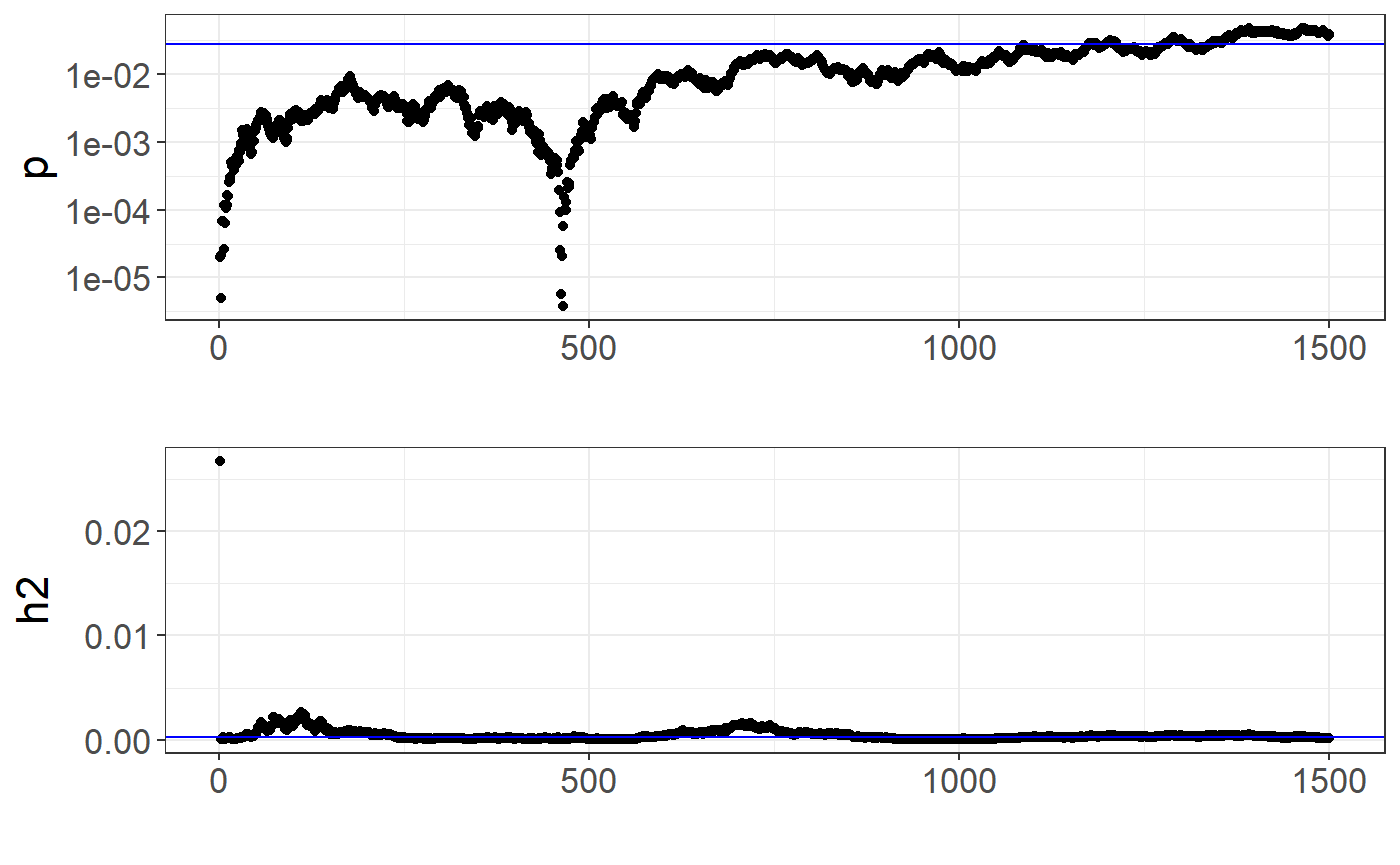
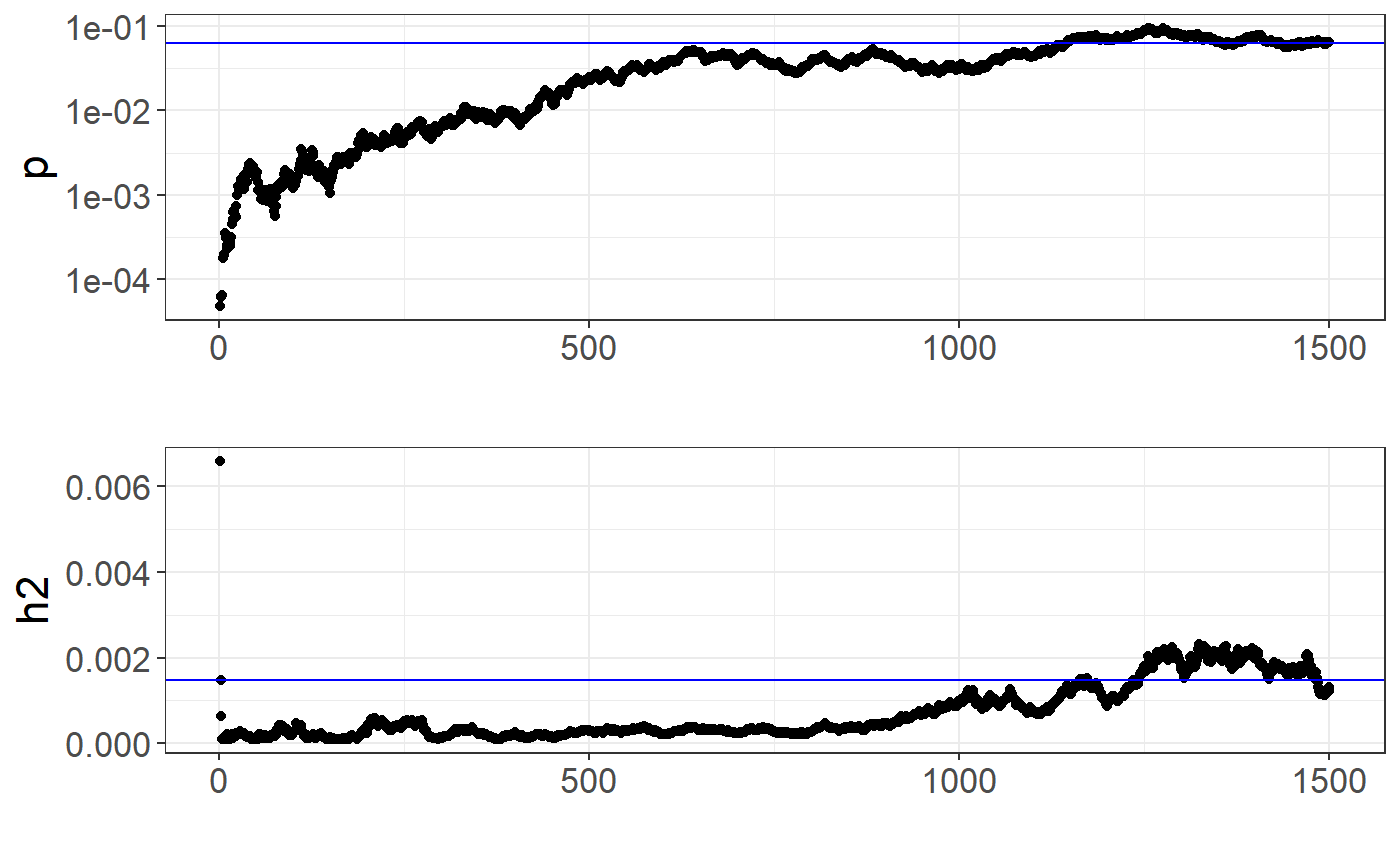
rebuild vignette

diff --git a/docs/articles/LDpred2.html b/docs/articles/LDpred2.html
@@ -43,7 +43,7 @@
 <li class="dropdown">
   <a href="#" class="dropdown-toggle" data-toggle="dropdown" role="button" aria-expanded="false">
     Vignettes
-
+     
     <span class="caret"></span>
   </a>
   <ul class="dropdown-menu" role="menu">
@@ -75,14 +75,14 @@
 <li>
   <a href="https://privefl.github.io/about.html">
     <span class="fa fa-user"></span>
-
+     
     About
   </a>
 </li>
 <li>
   <a href="https://github.com/privefl/bigsnpr">
     <span class="fa fa-github"></span>
-
+     
   </a>
 </li>
       </ul>
@@ -93,23 +93,23 @@
 </div>
 <!--/.navbar -->
 
-
+      
 
       </header><div class="row">
   <div class="col-md-9 contents">
     <div class="page-header toc-ignore">
       <h1 data-toc-skip>Computing polygenic scores using LDpred2</h1>
                         <h4 class="author">Florian Privé</h4>
-
+            
             <h4 class="date">May 25, 2020</h4>
-
+      
       <small class="dont-index">Source: <a href="https://github.com/privefl/bigsnpr/blob/master/vignettes/LDpred2.Rmd"><code>vignettes/LDpred2.Rmd</code></a></small>
       <div class="hidden name"><code>LDpred2.Rmd</code></div>
 
     </div>
 
-
-
+    
+    
 <p>In this document, we show how to compute polygenic risk scores using LDpred2. You should also look at the code of the paper, and at <a href="https://github.com/privefl/paper-ldpred2/blob/master/paper/paper-ldpred2-supp.pdf">the supplementary note on quality control of summary statistics</a>.</p>
 <div id="downloading-genotype-data-and-summary-statistics" class="section level2">
 <h2 class="hasAnchor">
@@ -213,13 +213,13 @@
 <h3 class="hasAnchor">
 <a href="#infinitesimal-model" class="anchor"></a>Infinitesimal model</h3>
 <div class="sourceCode" id="cb21"><html><body><pre class="r">(<span class="no">ldsc</span> <span class="kw">&lt;-</span> <span class="fu"><a href="../reference/snp_ldsc.html">snp_ldsc2</a></span>(<span class="no">corr0</span>, <span class="no">df_beta</span>))</pre></body></html></div>
-<pre><code>##       int        h2
+<pre><code>##       int        h2 
 ## 1.0000000 0.1152166</code></pre>
 <div class="sourceCode" id="cb23"><html><body><pre class="r"><span class="no">h2_est</span> <span class="kw">&lt;-</span> <span class="no">ldsc</span><span class="kw">[[</span><span class="st">"h2"</span>]]</pre></body></html></div>
 <div class="sourceCode" id="cb24"><html><body><pre class="r"><span class="no">beta_inf</span> <span class="kw">&lt;-</span> <span class="fu"><a href="../reference/LDpred2.html">snp_ldpred2_inf</a></span>(<span class="no">corr</span>, <span class="no">df_beta</span>, <span class="kw">h2</span> <span class="kw">=</span> <span class="no">h2_est</span>)</pre></body></html></div>
 <div class="sourceCode" id="cb25"><html><body><pre class="r"><span class="no">pred_inf</span> <span class="kw">&lt;-</span> <span class="fu">big_prodVec</span>(<span class="no">G</span>, <span class="no">beta_inf</span>, <span class="kw">ind.row</span> <span class="kw">=</span> <span class="no">ind.test</span>, <span class="kw">ind.col</span> <span class="kw">=</span> <span class="no">ind.chr2</span>)
 <span class="fu">AUCBoot</span>(<span class="no">pred_inf</span>, <span class="no">y</span>[<span class="no">ind.test</span>])</pre></body></html></div>
-<pre><code>##       Mean       2.5%      97.5%         Sd
+<pre><code>##       Mean       2.5%      97.5%         Sd 
 ## 0.66347145 0.56739110 0.75341191 0.04784474</code></pre>
 </div>
 <div id="grid-of-models" class="section level3">
@@ -340,11 +340,8 @@
 <span class="no">beta_grid</span> <span class="kw">&lt;-</span> <span class="fu"><a href="../reference/LDpred2.html">snp_ldpred2_grid</a></span>(<span class="no">corr</span>, <span class="no">df_beta</span>, <span class="no">params</span>, <span class="kw">ncores</span> <span class="kw">=</span> <span class="no">NCORES</span>)</pre></body></html></div>
 <div class="sourceCode" id="cb34"><html><body><pre class="r"><span class="no">pred_grid</span> <span class="kw">&lt;-</span> <span class="fu">big_prodMat</span>(<span class="no">G</span>, <span class="no">beta_grid</span>, <span class="kw">ind.col</span> <span class="kw">=</span> <span class="no">ind.chr2</span>)
 <span class="no">params</span>$<span class="no">score</span> <span class="kw">&lt;-</span> <span class="fu">big_univLogReg</span>(<span class="fu">as_FBM</span>(<span class="no">pred_grid</span>[<span class="no">ind.val</span>, ]), <span class="no">y</span>[<span class="no">ind.val</span>])$<span class="no">score</span></pre></body></html></div>
-<pre><code>## For 5 columns, IRLS didn't converge; `glm` was used instead.</code></pre>
-<pre><code>## Warning: For 5 columns, glm didn't converge either.</code></pre>
-<div class="sourceCode" id="cb37"><html><body><pre class="r"><span class="fu"><a href="https://rdrr.io/r/base/library.html">library</a></span>(<span class="no">ggplot2</span>)</pre></body></html></div>
-<pre><code>## Warning: package 'ggplot2' was built under R version 3.6.3</code></pre>
-<div class="sourceCode" id="cb39"><html><body><pre class="r"><span class="fu"><a href="https://ggplot2.tidyverse.org/reference/ggplot.html">ggplot</a></span>(<span class="no">params</span>, <span class="fu"><a href="https://ggplot2.tidyverse.org/reference/aes.html">aes</a></span>(<span class="kw">x</span> <span class="kw">=</span> <span class="no">p</span>, <span class="kw">y</span> <span class="kw">=</span> <span class="no">score</span>, <span class="kw">color</span> <span class="kw">=</span> <span class="fu"><a href="https://rdrr.io/r/base/factor.html">as.factor</a></span>(<span class="no">h2</span>))) +
+<div class="sourceCode" id="cb35"><html><body><pre class="r"><span class="fu"><a href="https://rdrr.io/r/base/library.html">library</a></span>(<span class="no">ggplot2</span>)
+<span class="fu"><a href="https://ggplot2.tidyverse.org/reference/ggplot.html">ggplot</a></span>(<span class="no">params</span>, <span class="fu"><a href="https://ggplot2.tidyverse.org/reference/aes.html">aes</a></span>(<span class="kw">x</span> <span class="kw">=</span> <span class="no">p</span>, <span class="kw">y</span> <span class="kw">=</span> <span class="no">score</span>, <span class="kw">color</span> <span class="kw">=</span> <span class="fu"><a href="https://rdrr.io/r/base/factor.html">as.factor</a></span>(<span class="no">h2</span>))) +
   <span class="fu">theme_bigstatsr</span>() +
   <span class="fu"><a href="https://ggplot2.tidyverse.org/reference/geom_point.html">geom_point</a></span>() +
   <span class="fu"><a href="https://ggplot2.tidyverse.org/reference/geom_path.html">geom_line</a></span>() +
@@ -352,28 +349,26 @@
   <span class="fu"><a href="https://ggplot2.tidyverse.org/reference/facet_wrap.html">facet_wrap</a></span>(~ <span class="no">sparse</span>, <span class="kw">labeller</span> <span class="kw">=</span> <span class="no">label_both</span>) +
   <span class="fu"><a href="https://ggplot2.tidyverse.org/reference/labs.html">labs</a></span>(<span class="kw">y</span> <span class="kw">=</span> <span class="st">"GLM Z-Score"</span>, <span class="kw">color</span> <span class="kw">=</span> <span class="st">"h2"</span>) +
   <span class="fu"><a href="https://ggplot2.tidyverse.org/reference/theme.html">theme</a></span>(<span class="kw">legend.position</span> <span class="kw">=</span> <span class="st">"top"</span>, <span class="kw">panel.spacing</span> <span class="kw">=</span> <span class="fu"><a href="https://ggplot2.tidyverse.org/reference/reexports.html">unit</a></span>(<span class="fl">1</span>, <span class="st">"lines"</span>))</pre></body></html></div>
-<pre><code>## Warning: Removed 5 rows containing missing values (geom_point).</code></pre>
-<pre><code>## Warning: Removed 2 row(s) containing missing values (geom_path).</code></pre>
 <p><img src="LDpred2_files/figure-html/unnamed-chunk-17-1.png" width="90%" style="display: block; margin: auto;"></p>
-<div class="sourceCode" id="cb42"><html><body><pre class="r"><span class="fu"><a href="https://rdrr.io/r/base/library.html">library</a></span>(<span class="no">dplyr</span>)
+<div class="sourceCode" id="cb36"><html><body><pre class="r"><span class="fu"><a href="https://rdrr.io/r/base/library.html">library</a></span>(<span class="no">dplyr</span>)
 <span class="no">params</span> <span class="kw">%&gt;%</span>
   <span class="fu"><a href="https://dplyr.tidyverse.org/reference/mutate.html">mutate</a></span>(<span class="kw">sparsity</span> <span class="kw">=</span> <span class="fu"><a href="https://rdrr.io/r/base/colSums.html">colMeans</a></span>(<span class="no">beta_grid</span> <span class="kw">==</span> <span class="fl">0</span>), <span class="kw">id</span> <span class="kw">=</span> <span class="fu"><a href="https://dplyr.tidyverse.org/reference/ranking.html">row_number</a></span>()) <span class="kw">%&gt;%</span>
   <span class="fu"><a href="https://dplyr.tidyverse.org/reference/arrange.html">arrange</a></span>(<span class="fu"><a href="https://dplyr.tidyverse.org/reference/desc.html">desc</a></span>(<span class="no">score</span>)) <span class="kw">%&gt;%</span>
   <span class="fu"><a href="https://dplyr.tidyverse.org/reference/mutate_all.html">mutate_at</a></span>(<span class="fu"><a href="https://rdrr.io/r/base/c.html">c</a></span>(<span class="st">"score"</span>, <span class="st">"sparsity"</span>), <span class="no">round</span>, <span class="kw">digits</span> <span class="kw">=</span> <span class="fl">3</span>) <span class="kw">%&gt;%</span>
   <span class="fu"><a href="https://dplyr.tidyverse.org/reference/slice.html">slice</a></span>(<span class="fl">1</span>:<span class="fl">10</span>)</pre></body></html></div>
 <pre><code>##         p     h2 sparse score sparsity id
-## 1  0.0010 0.0807   TRUE 4.366    0.593 56
-## 2  0.0056 0.1613  FALSE 4.363    0.000 42
-## 3  0.0056 0.1613   TRUE 4.362    0.544 93
-## 4  0.1000 0.1152   TRUE 4.361    0.573 81
-## 5  0.0180 0.1613  FALSE 4.356    0.000 44
-## 6  0.0010 0.1152  FALSE 4.353    0.000 22
-## 7  0.0032 0.1613   TRUE 4.352    0.551 92
-## 8  0.0056 0.1152   TRUE 4.351    0.564 76
-## 9  0.0032 0.1152   TRUE 4.351    0.565 75
-## 10 0.0100 0.0807   TRUE 4.349    0.582 60</code></pre>
+## 1  0.0056 0.1152   TRUE 4.381    0.567 76
+## 2  0.0018 0.1152   TRUE 4.362    0.568 74
+## 3  0.0032 0.1613   TRUE 4.362    0.550 92
+## 4  0.0320 0.1613   TRUE 4.360    0.550 96
+## 5  0.0320 0.0807   TRUE 4.360    0.582 62
+## 6  0.0032 0.1152   TRUE 4.358    0.568 75
+## 7  0.0018 0.1613   TRUE 4.358    0.563 91
+## 8  0.0032 0.0807   TRUE 4.355    0.583 58
+## 9  0.0560 0.0807   TRUE 4.355    0.585 63
+## 10 0.0010 0.0807   TRUE 4.354    0.597 56</code></pre>
 <p>You can then choose the best model according to your preferred criterion (e.g. max AUC). Here, we use the Z-Score from the regression of the phenotype by the PRS since we have found it more robust than using the AUC. It also enables adjusting for covariates in this step.</p>
-<div class="sourceCode" id="cb44"><html><body><pre class="r"><span class="no">best_grid_nosp</span> <span class="kw">&lt;-</span> <span class="no">params</span> <span class="kw">%&gt;%</span>
+<div class="sourceCode" id="cb38"><html><body><pre class="r"><span class="no">best_grid_nosp</span> <span class="kw">&lt;-</span> <span class="no">params</span> <span class="kw">%&gt;%</span>
   <span class="fu"><a href="https://dplyr.tidyverse.org/reference/mutate.html">mutate</a></span>(<span class="kw">id</span> <span class="kw">=</span> <span class="fu"><a href="https://dplyr.tidyverse.org/reference/ranking.html">row_number</a></span>()) <span class="kw">%&gt;%</span>
   <span class="fu"><a href="https://dplyr.tidyverse.org/reference/filter.html">filter</a></span>(!<span class="no">sparse</span>) <span class="kw">%&gt;%</span>
   <span class="fu"><a href="https://dplyr.tidyverse.org/reference/arrange.html">arrange</a></span>(<span class="fu"><a href="https://dplyr.tidyverse.org/reference/desc.html">desc</a></span>(<span class="no">score</span>)) <span class="kw">%&gt;%</span>
@@ -383,9 +378,9 @@
 
 <span class="no">pred_nosp</span> <span class="kw">&lt;-</span> <span class="fu">big_prodVec</span>(<span class="no">G</span>, <span class="no">best_grid_nosp</span>, <span class="kw">ind.row</span> <span class="kw">=</span> <span class="no">ind.test</span>, <span class="kw">ind.col</span> <span class="kw">=</span> <span class="no">ind.chr2</span>)
 <span class="fu">AUCBoot</span>(<span class="no">pred_nosp</span>, <span class="no">y</span>[<span class="no">ind.test</span>])</pre></body></html></div>
-<pre><code>##       Mean       2.5%      97.5%         Sd
-## 0.66529037 0.56933474 0.75679078 0.04782163</code></pre>
-<div class="sourceCode" id="cb46"><html><body><pre class="r"><span class="no">best_grid_sp</span> <span class="kw">&lt;-</span> <span class="no">params</span> <span class="kw">%&gt;%</span>
+<pre><code>##      Mean      2.5%     97.5%        Sd 
+## 0.6704479 0.5698157 0.7647398 0.0496414</code></pre>
+<div class="sourceCode" id="cb40"><html><body><pre class="r"><span class="no">best_grid_sp</span> <span class="kw">&lt;-</span> <span class="no">params</span> <span class="kw">%&gt;%</span>
   <span class="fu"><a href="https://dplyr.tidyverse.org/reference/mutate.html">mutate</a></span>(<span class="kw">id</span> <span class="kw">=</span> <span class="fu"><a href="https://dplyr.tidyverse.org/reference/ranking.html">row_number</a></span>()) <span class="kw">%&gt;%</span>
   <span class="fu"><a href="https://dplyr.tidyverse.org/reference/filter.html">filter</a></span>(<span class="no">sparse</span>) <span class="kw">%&gt;%</span>
   <span class="fu"><a href="https://dplyr.tidyverse.org/reference/arrange.html">arrange</a></span>(<span class="fu"><a href="https://dplyr.tidyverse.org/reference/desc.html">desc</a></span>(<span class="no">score</span>)) <span class="kw">%&gt;%</span>
@@ -395,45 +390,45 @@
 
 <span class="no">pred_sp</span> <span class="kw">&lt;-</span> <span class="fu">big_prodVec</span>(<span class="no">G</span>, <span class="no">best_grid_sp</span>, <span class="kw">ind.row</span> <span class="kw">=</span> <span class="no">ind.test</span>, <span class="kw">ind.col</span> <span class="kw">=</span> <span class="no">ind.chr2</span>)
 <span class="fu">AUCBoot</span>(<span class="no">pred_sp</span>, <span class="no">y</span>[<span class="no">ind.test</span>])</pre></body></html></div>
-<pre><code>##       Mean       2.5%      97.5%         Sd
-## 0.67250467 0.57387886 0.76612549 0.04903482</code></pre>
+<pre><code>##       Mean       2.5%      97.5%         Sd 
+## 0.67072610 0.57171647 0.76128541 0.04835828</code></pre>
 </div>
 <div id="automatic-model" class="section level3">
 <h3 class="hasAnchor">
 <a href="#automatic-model" class="anchor"></a>Automatic model</h3>
 <p>Actually, you can run many of them in parallel with different initial values for <code>p</code>.</p>
-<div class="sourceCode" id="cb48"><html><body><pre class="r"><span class="co"># takes a few minutes</span>
+<div class="sourceCode" id="cb42"><html><body><pre class="r"><span class="co"># takes a few minutes</span>
 <span class="no">multi_auto</span> <span class="kw">&lt;-</span> <span class="fu"><a href="../reference/LDpred2.html">snp_ldpred2_auto</a></span>(<span class="no">corr</span>, <span class="no">df_beta</span>, <span class="kw">h2_init</span> <span class="kw">=</span> <span class="no">h2_est</span>,
                                <span class="kw">vec_p_init</span> <span class="kw">=</span> <span class="fu"><a href="../reference/seq_log.html">seq_log</a></span>(<span class="fl">1e-4</span>, <span class="fl">0.9</span>, <span class="kw">length.out</span> <span class="kw">=</span> <span class="no">NCORES</span>),
                                <span class="kw">ncores</span> <span class="kw">=</span> <span class="no">NCORES</span>)
 <span class="fu"><a href="https://rdrr.io/r/utils/str.html">str</a></span>(<span class="no">multi_auto</span>)</pre></body></html></div>
 <pre><code>## List of 4
 ##  $ :List of 5
-##   ..$ beta_est   : num [1:52556] -1.98e-07 1.19e-07 -9.01e-07 -1.48e-06 -1.32e-06 ...
-##   ..$ p_est      : num 0.0279
-##   ..$ h2_est     : num 0.000316
-##   ..$ path_p_est : num [1:1500] 1.98e-05 4.96e-06 2.15e-05 6.69e-05 6.74e-05 ...
-##   ..$ path_h2_est: num [1:1500] 0.026744 0.0001 0.000101 0.0001 0.000273 ...
+##   ..$ beta_est   : num [1:52556] -9.23e-07 5.57e-07 -4.21e-06 -6.89e-06 -6.18e-06 ...
+##   ..$ p_est      : num 0.0635
+##   ..$ h2_est     : num 0.00147
+##   ..$ path_p_est : num [1:1500] 4.75e-05 6.37e-05 6.06e-05 6.56e-05 1.77e-04 ...
+##   ..$ path_h2_est: num [1:1500] 0.006599 0.00147 0.000645 0.0001 0.000115 ...
 ##  $ :List of 5
-##   ..$ beta_est   : num [1:52556] -5.27e-07 3.19e-07 -2.41e-06 -3.94e-06 -3.53e-06 ...
-##   ..$ p_est      : num 0.0359
-##   ..$ h2_est     : num 0.000839
-##   ..$ path_p_est : num [1:1500] 0.00243 0.00215 0.00271 0.00299 0.00235 ...
-##   ..$ path_h2_est: num [1:1500] 0.1175 0.0742 0.0769 0.0853 0.069 ...
+##   ..$ beta_est   : num [1:52556] -7.81e-07 4.73e-07 -3.57e-06 -5.85e-06 -5.24e-06 ...
+##   ..$ p_est      : num 0.0114
+##   ..$ h2_est     : num 0.00124
+##   ..$ path_p_est : num [1:1500] 0.00247 0.00327 0.00314 0.00332 0.00348 ...
+##   ..$ path_h2_est: num [1:1500] 0.147 0.159 0.202 0.238 0.234 ...
 ##  $ :List of 5
-##   ..$ beta_est   : num [1:52556] -2.07e-07 1.24e-07 -9.45e-07 -1.55e-06 -1.39e-06 ...
-##   ..$ p_est      : num 0.03
-##   ..$ h2_est     : num 0.00033
-##   ..$ path_p_est : num [1:1500] 0.0434 0.0449 0.0444 0.0429 0.0437 ...
-##   ..$ path_h2_est: num [1:1500] 0.1143 0.1081 0.1009 0.0999 0.097 ...
+##   ..$ beta_est   : num [1:52556] -4.90e-07 2.94e-07 -2.23e-06 -3.65e-06 -3.27e-06 ...
+##   ..$ p_est      : num 0.0291
+##   ..$ h2_est     : num 0.000781
+##   ..$ path_p_est : num [1:1500] 0.0434 0.0419 0.0418 0.0429 0.0438 ...
+##   ..$ path_h2_est: num [1:1500] 0.1114 0.1042 0.1045 0.0999 0.0931 ...
 ##  $ :List of 5
-##   ..$ beta_est   : num [1:52556] -2.89e-06 1.72e-06 -1.31e-05 -2.15e-05 -1.93e-05 ...
-##   ..$ p_est      : num 0.87
-##   ..$ h2_est     : num 0.0046
-##   ..$ path_p_est : num [1:1500] 0.903 0.902 0.902 0.904 0.901 ...
-##   ..$ path_h2_est: num [1:1500] 0.115 0.106 0.104 0.101 0.102 ...</code></pre>
+##   ..$ beta_est   : num [1:52556] -3.17e-06 1.92e-06 -1.44e-05 -2.37e-05 -2.12e-05 ...
+##   ..$ p_est      : num 0.901
+##   ..$ h2_est     : num 0.00506
+##   ..$ path_p_est : num [1:1500] 0.899 0.9 0.897 0.897 0.897 ...
+##   ..$ path_h2_est: num [1:1500] 0.12 0.121 0.117 0.111 0.109 ...</code></pre>
 <p>You should verify if the chains “converged”. This is not the case here, which is probably because the data is so small.</p>
-<div class="sourceCode" id="cb50"><html><body><pre class="r"><span class="no">auto</span> <span class="kw">&lt;-</span> <span class="no">multi_auto</span><span class="kw">[[</span><span class="fl">1</span>]]
+<div class="sourceCode" id="cb44"><html><body><pre class="r"><span class="no">auto</span> <span class="kw">&lt;-</span> <span class="no">multi_auto</span><span class="kw">[[</span><span class="fl">1</span>]]
 <span class="fu">plot_grid</span>(
   <span class="fu"><a href="https://ggplot2.tidyverse.org/reference/qplot.html">qplot</a></span>(<span class="kw">y</span> <span class="kw">=</span> <span class="no">auto</span>$<span class="no">path_p_est</span>) +
     <span class="fu">theme_bigstatsr</span>() +
@@ -447,22 +442,34 @@
   <span class="kw">ncol</span> <span class="kw">=</span> <span class="fl">1</span>, <span class="kw">align</span> <span class="kw">=</span> <span class="st">"hv"</span>
 )</pre></body></html></div>
 <p><img src="LDpred2_files/figure-html/unnamed-chunk-22-1.png" width="700" style="display: block; margin: auto;"></p>
-<div class="sourceCode" id="cb51"><html><body><pre class="r"><span class="no">beta_auto</span> <span class="kw">&lt;-</span> <span class="fu"><a href="https://rdrr.io/r/base/lapply.html">sapply</a></span>(<span class="no">multi_auto</span>, <span class="kw">function</span>(<span class="no">auto</span>) <span class="no">auto</span>$<span class="no">beta_est</span>)
+<div class="sourceCode" id="cb45"><html><body><pre class="r"><span class="no">beta_auto</span> <span class="kw">&lt;-</span> <span class="fu"><a href="https://rdrr.io/r/base/lapply.html">sapply</a></span>(<span class="no">multi_auto</span>, <span class="kw">function</span>(<span class="no">auto</span>) <span class="no">auto</span>$<span class="no">beta_est</span>)
 <span class="no">pred_auto</span> <span class="kw">&lt;-</span> <span class="fu">big_prodMat</span>(<span class="no">G</span>, <span class="no">beta_auto</span>, <span class="kw">ind.row</span> <span class="kw">=</span> <span class="no">ind.test</span>, <span class="kw">ind.col</span> <span class="kw">=</span> <span class="no">ind.chr2</span>)</pre></body></html></div>
-<div class="sourceCode" id="cb52"><html><body><pre class="r"><span class="co"># Make sure the scale is okay (by comparing to LDpred2-inf and others auto)</span>
+<div class="sourceCode" id="cb46"><html><body><pre class="r"><span class="co"># Make sure the scale is okay (by comparing to LDpred2-inf and others auto)</span>
 <span class="fu"><a href="https://rdrr.io/r/base/c.html">c</a></span>(<span class="fu"><a href="https://rdrr.io/r/stats/mad.html">mad</a></span>(<span class="no">pred_inf</span>), <span class="fu"><a href="https://rdrr.io/r/base/apply.html">apply</a></span>(<span class="no">pred_auto</span>, <span class="fl">2</span>, <span class="no">mad</span>))</pre></body></html></div>
-<pre><code>## [1] 0.2173099580 0.0005882391 0.0015750108 0.0006199562 0.0086212372</code></pre>
-<div class="sourceCode" id="cb54"><html><body><pre class="r"><span class="co"># and could keep only the ones that looks good.. (e.g. see code of paper)</span>
+<pre><code>## [1] 0.217309958 0.002750820 0.002335504 0.001460205 0.009433448</code></pre>
+<div class="sourceCode" id="cb48"><html><body><pre class="r"><span class="co"># and could keep only the ones that looks good.. (e.g. see code of paper)</span>
 <span class="no">final_pred_auto</span> <span class="kw">&lt;-</span> <span class="fu"><a href="https://rdrr.io/r/base/colSums.html">rowMeans</a></span>(<span class="no">pred_auto</span>)</pre></body></html></div>
-<div class="sourceCode" id="cb55"><html><body><pre class="r"><span class="fu">AUCBoot</span>(<span class="no">final_pred_auto</span>, <span class="no">y</span>[<span class="no">ind.test</span>])</pre></body></html></div>
-<pre><code>##       Mean       2.5%      97.5%         Sd
-## 0.66302201 0.56829498 0.75144334 0.04713407</code></pre>
+<div class="sourceCode" id="cb49"><html><body><pre class="r"><span class="fu">AUCBoot</span>(<span class="no">final_pred_auto</span>, <span class="no">y</span>[<span class="no">ind.test</span>])</pre></body></html></div>
+<pre><code>##      Mean      2.5%     97.5%        Sd 
+## 0.6638091 0.5668773 0.7550718 0.0480581</code></pre>
 </div>
 </div>
 <div id="conclusion" class="section level2">
 <h2 class="hasAnchor">
 <a href="#conclusion" class="anchor"></a>Conclusion</h2>
-<p>We have seen how to run 3 versions of LDpred2 (“-inf”, “-grid” and “-auto”) for one chromosome. You should do this for each chromosome and combine results.</p>
+<p>We have seen how to run 3 versions of LDpred2 (“-inf”, “-grid” and “-auto”) for one chromosome. You need to do this for each chromosome and combine results. Normally, you can just sum the resulting scores, or equivalently, append the effect sizes.</p>
+<p>In practice, until we find a better set of variants, we recommend using the HapMap3 variants used in PRS-CS and the LDpred2 papers. Information about these variants can be retrieved with</p>
+<div class="sourceCode" id="cb51"><html><body><pre class="r"><span class="no">info</span> <span class="kw">&lt;-</span> <span class="fu"><a href="https://rdrr.io/r/base/readRDS.html">readRDS</a></span>(<span class="fu"><a href="https://rdrr.io/r/base/connections.html">url</a></span>(<span class="st">"https://github.com/privefl/bigsnpr/raw/master/data-raw/hm3_variants.rds"</span>))
+<span class="fu"><a href="https://rdrr.io/r/utils/str.html">str</a></span>(<span class="no">info</span>)</pre></body></html></div>
+<pre><code>## 'data.frame':    1120696 obs. of  8 variables:
+##  $ chr     : int  1 1 1 1 1 1 1 1 1 1 ...
+##  $ rsid    : chr  "rs3131972" "rs3131969" "rs1048488" "rs12562034" ...
+##  $ pos     : int  752721 754182 760912 768448 779322 838555 846808 853954 854250 861808 ...
+##  $ a1      : chr  "A" "A" "C" "A" ...
+##  $ a0      : chr  "G" "G" "T" "G" ...
+##  $ maf     : num  0.161 0.1282 0.16 0.0925 0.1183 ...
+##  $ pos_hg19: int  762858 764319 771049 778585 789459 848692 856945 864091 864387 871945 ...
+##  $ pos_hg17: int  802721 804182 810912 818448 829322 888555 896808 903954 904250 912088 ...</code></pre>
 </div>
 <div id="reference" class="section level2">
 <h2 class="hasAnchor">
@@ -492,7 +499,7 @@
       </footer>
 </div>
 
-
+  
 
 
   </body>
